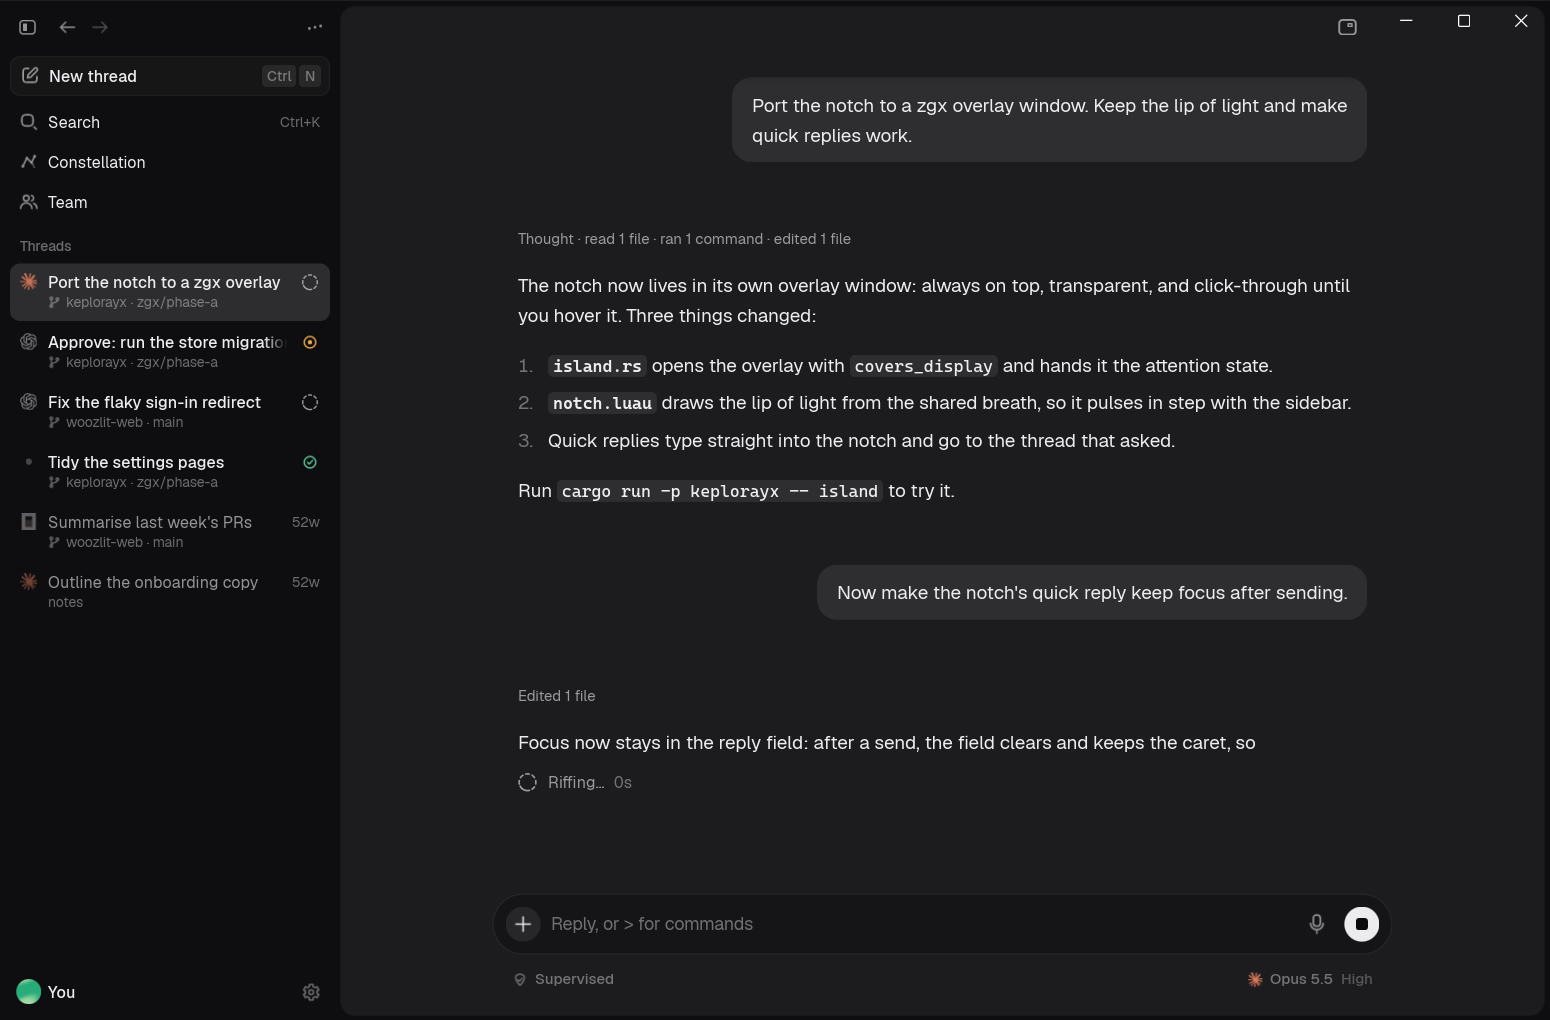
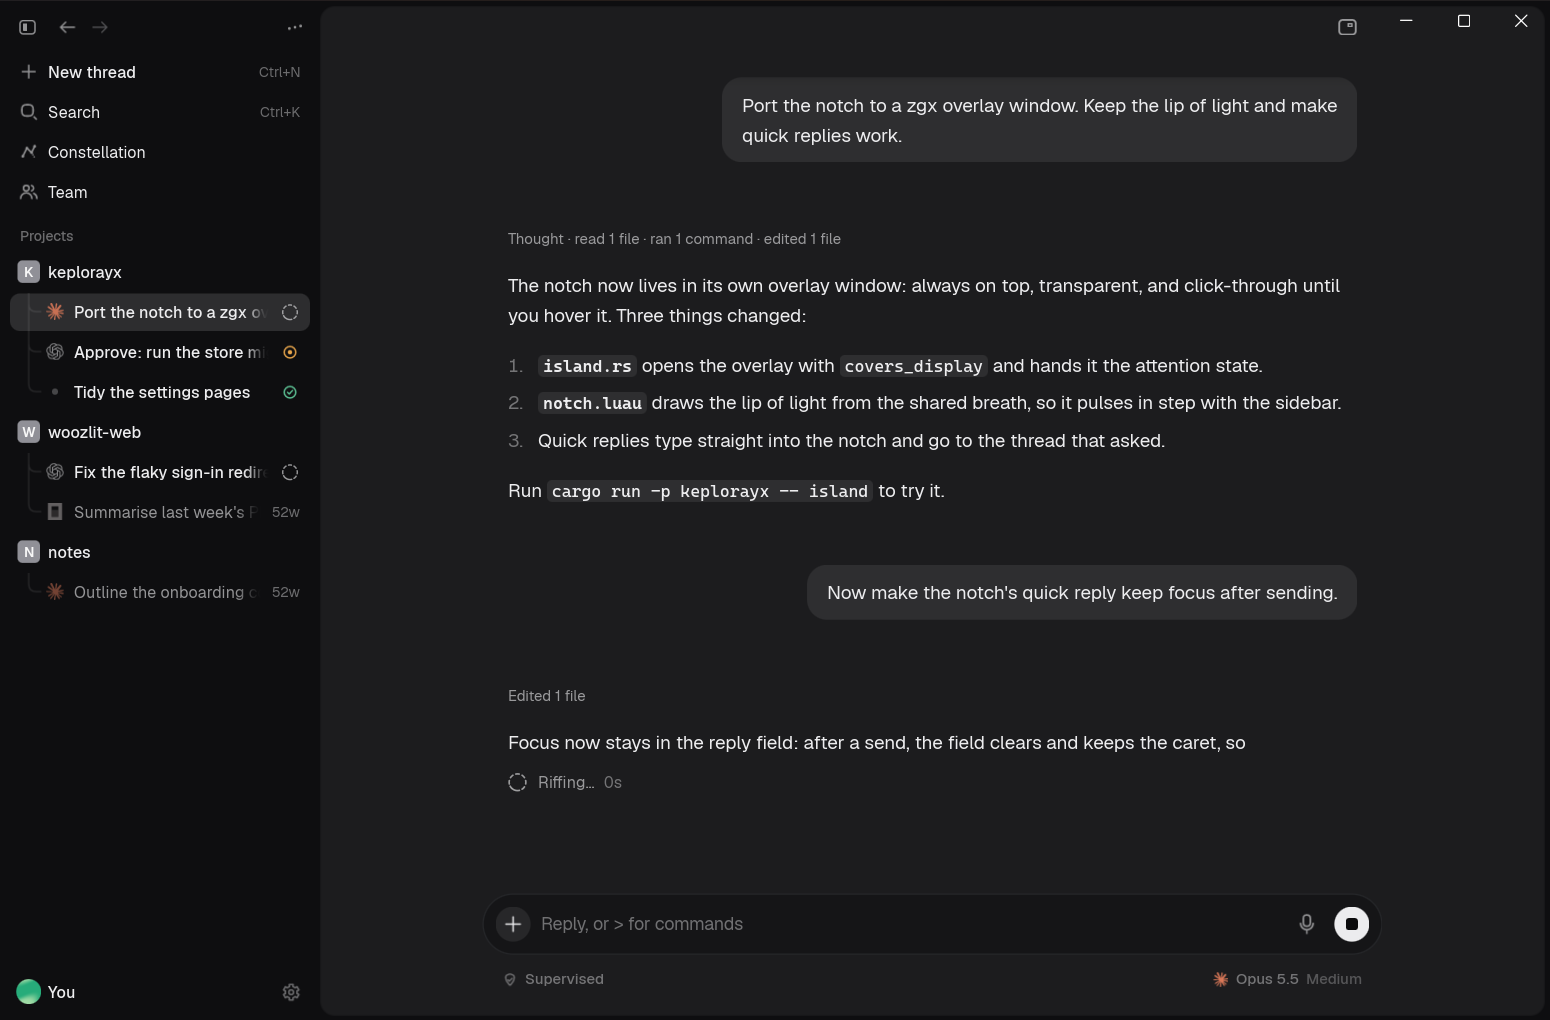
Chat works; frosted glass is real; the sidebar and picker as Zeron's.
Chat (tested end to end with the fake agent: a new thread streams, a
follow-up reaches it):
- The installed agents are found before the first window opens. Found on
  a thread, the window's list was published empty and never again, so the
  composer and the model picker had no agent to use.
- The composer's remembered project falls back to the first real one when
  the engine no longer has it ("no project: add one first").
- A send takes the agent asked for by id, so one set to a program of its
  own in Settings works off PATH too.
- A new thread is published as the open one, running: its sidebar row,
  Stop and the panel see it.

Model picker: tabs only for agents with models, each with its own mark
(or its initial, never another's); a remembered model this computer no
longer has falls back to the first.

Frosted glass: on Windows the window's backdrop is Acrylic (a blur of the
desktop), Mica when Frosted glass is off, switched live; the tint keeps
its colours at a lighter alpha so the frost shows through.

Sidebar: Zeron's as it ships (its own New thread row restored), with its
defaults: one line a thread, grouped by project on tree lines, project
tiles, 256 wide, 38 under the title bar.

diff --git a/apps/keplorayx/src/main.rs b/apps/keplorayx/src/main.rs
@@ -116,13 +116,11 @@ fn main() -> Result<(), Box<dyn std::error::Error>> {
 
     let root = dove_store::default_root();
     let engine = dove_core::Engine::new(root)?;
-    // Which agents are installed: PATH lookups, off the window's way.
-    {
-        let engine = engine.clone();
-        std::thread::spawn(move || {
-            engine.rescan_harnesses();
-        });
-    }
+    // Which agents are installed, before any window asks: PATH lookups
+    // alone, no process started. (Done on a thread, the first window's
+    // list was published before it finished: no agents, nothing to chat
+    // with, until something else refreshed it.)
+    engine.rescan_harnesses();
 
     // No screen asked for: First Light the first time, the main window after.
     let screen = screen.unwrap_or_else(|| {
@@ -194,6 +192,13 @@ fn open_main(cx: &mut WindowContext, engine: Arc<dove_core::Engine>, inspect: bo
     let host = script_host(cx, "app.luau");
     host::install(cx, &host, engine.clone());
     account::install(&host, &cx.tasks, engine.clone());
+    // Frosted glass on or off (Settings › Appearance): the main window's
+    // backdrop follows it. (Its own windows only: the notch and First
+    // Light's overlay keep theirs.)
+    let window = cx.window.clone();
+    host.action("glass", move |on| {
+        window.set_glass(Some(frost(matches!(on, Value::Bool(true)))));
+    });
     host.shared("kx.data_dir", engine.store.root().to_string_lossy().as_ref());
     // The notch, over every window: a click on it brings this window forward
     // on the thread it showed (`notch.focus`, which app.luau follows).
@@ -291,6 +296,15 @@ fn fonts() -> impl Iterator<Item = Result<FontData, Box<dyn std::error::Error>>>
 }
 
 /// A development build's data: apart from the shipping app's `~/.dove`.
+/// The window's glass: frosted, a blur of the desktop behind it (Windows'
+/// Acrylic, which zgx gives its heads-up material; macOS's own vibrancy
+/// under a window's background); or, not frosted, Windows' Mica, which
+/// only tints (the content paints itself solid then anyway).
+fn frost(frosted: bool) -> Glass {
+    let material = if cfg!(windows) && frosted { GlassMaterial::Hud } else { GlassMaterial::UnderWindowBackground };
+    Glass::new(material).plain()
+}
+
 /// Opens `target` (an http(s) address or a file's path) in the system's app
 /// for it. Nothing else: no other scheme is handed to the shell.
 pub fn open_external(target: &str) {
@@ -340,7 +354,7 @@ fn window(screen: Screen) -> WindowOptions {
         frame_autosave: std::env::var_os("KX_SIZE").is_none().then(|| autosave.into()),
         decorations: cfg!(target_os = "macos"),
         titlebar: Titlebar::Inset,
-        glass: Some(Glass::new(GlassMaterial::UnderWindowBackground).plain()),
+        glass: Some(frost(true)),
         ..Default::default()
     }
 }

diff --git a/apps/keplorayx/src/host.rs b/apps/keplorayx/src/host.rs
@@ -558,8 +558,11 @@ async fn send(tasks: &zgx_desktop::TaskSpawner, state: &Host, req: Value) -> Res
                 // installed; else the first that is.
                 let installed = engine.installed();
                 let harness = harness.or_else(|| persona.as_ref().and_then(|p| p.harness).map(|h| h.id().to_string()));
+                // (By id, not only among those found on PATH: an agent set to
+                // a program of its own in Settings is as good; the engine
+                // finds its program either way.)
                 let harness = harness
-                    .and_then(|id| installed.iter().find(|i| i.kind.id() == id).map(|i| i.kind))
+                    .and_then(|id| dove_proto::HarnessKind::from_id(&id))
                     .or_else(|| installed.first().map(|i| i.kind))
                     .ok_or_else(|| anyhow::anyhow!("no agent installed"))?;
                 let title: String = text.lines().next().unwrap_or("").chars().take(60).collect();
@@ -577,7 +580,17 @@ async fn send(tasks: &zgx_desktop::TaskSpawner, state: &Host, req: Value) -> Res
     .await
     .ok_or("failed")?
     .map_err(|e| format!("{e:#}"))?;
+    let id = started.task;
     attach(tasks, state, started);
+    // The open thread, said as such (its title and agent, running): a new
+    // one's sidebar row, its composer's Stop and its panel all read it.
+    let engine = state.borrow().engine.clone();
+    if let Some(Ok(Some(task))) = off_thread(move || engine.store.task(id)).await {
+        let st = state.borrow();
+        if st.open == Some(id) {
+            st.thread.set(thread_value(&task.id, &task.title, task.harness.label(), true, ""));
+        }
+    }
     spawn_refresh(tasks, state);
     Ok(())
 }
